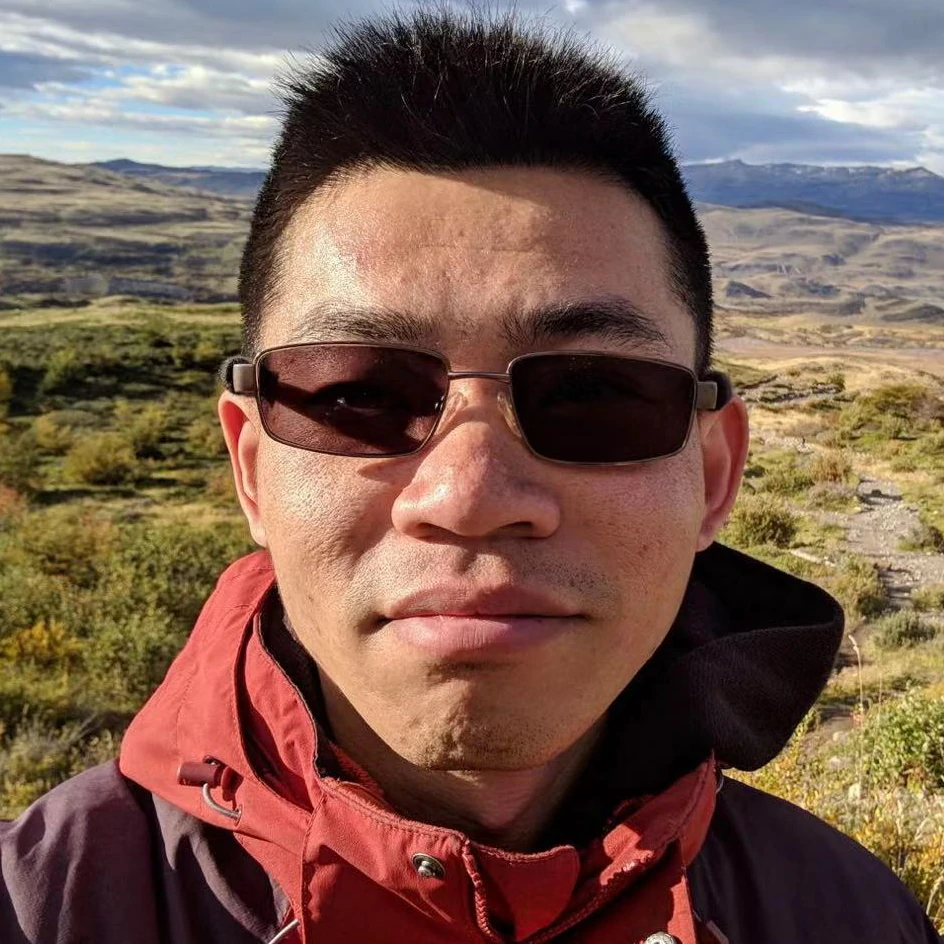
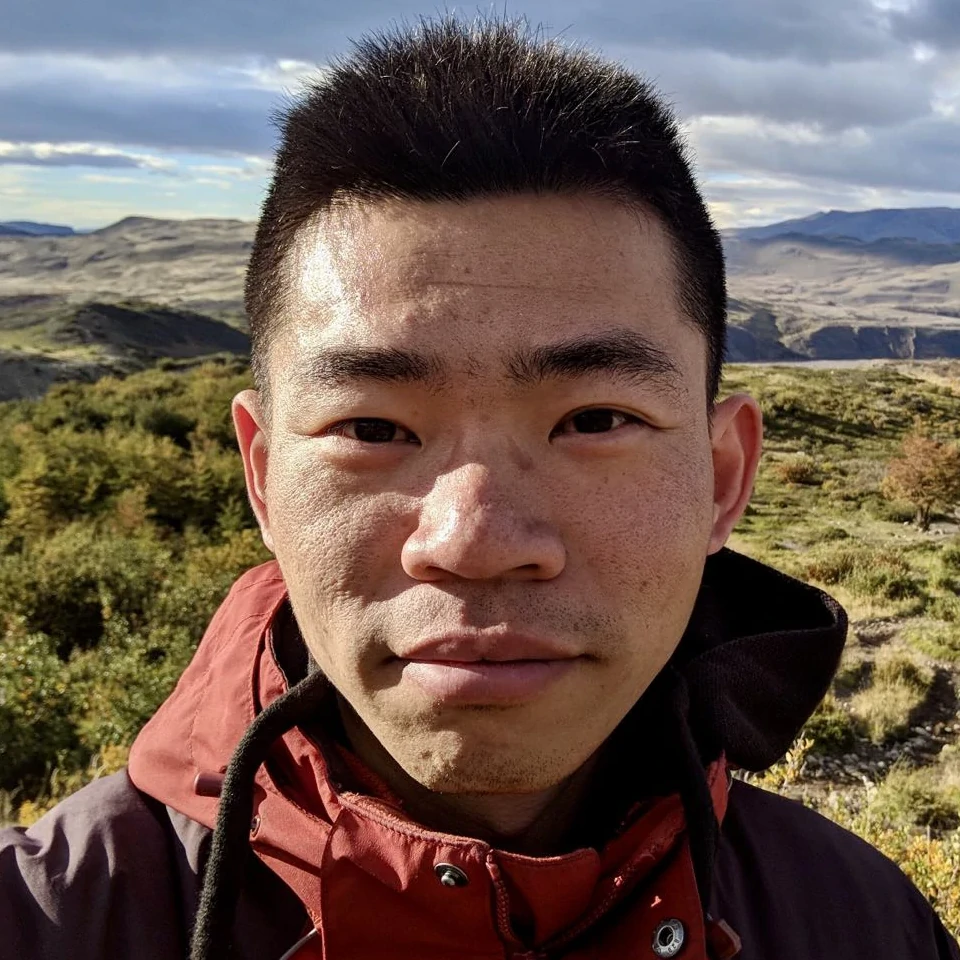
update image

diff --git a/index.html b/index.html
@@ -22,7 +22,7 @@
             <div class="information-all">
                 <div class="col-6-asb">
                     <div class="col-3 peasonal">
-                        <img class="peasonal-image" src="./static/image/peason.png" alt="">
+                        <img class="peasonal-image" src="./static/image/person.webp" alt="">
                     </div>
                     <div class="col-9 item">
                         <p class="title name">
@@ -123,20 +123,13 @@
          
             
                 <div class="peasonal-message">
-                    <img class="peasonal-image" src="./static/image/peason.png" alt="">
-                    <div class="item">
-                        <p class="name"> 张达睿 Darui Zhang</p>
-                        <p class="phone">www.linkedin.com/in/daruizhang</p>
-                        <p class="email">dalaska@126.com</p>
-                    </div>
-                 
-                    <div class="item contact">
+                        <div class="col-9">
+                            <p>联系我</p>
+                        </div>
                         <div class="col-5 qrcode">
                             <img class="qr-image" src="./static/image/QRCode.png" alt="">
                         </div>
-                        <div class="col-9">
-                            <p>了解更多的我</p>
-                        </div>
+                       
                     </div>
                 </div>
             

diff --git a/README.md b/README.md
@@ -1,2 +1,2 @@
 # dalaska.github.io
-## for test
+## home-page
